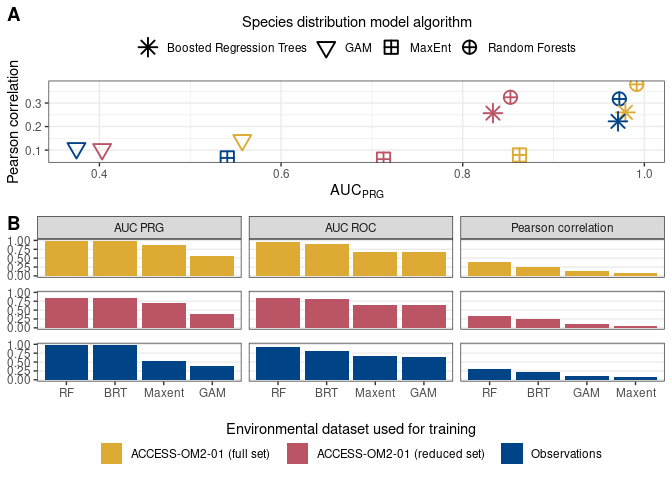
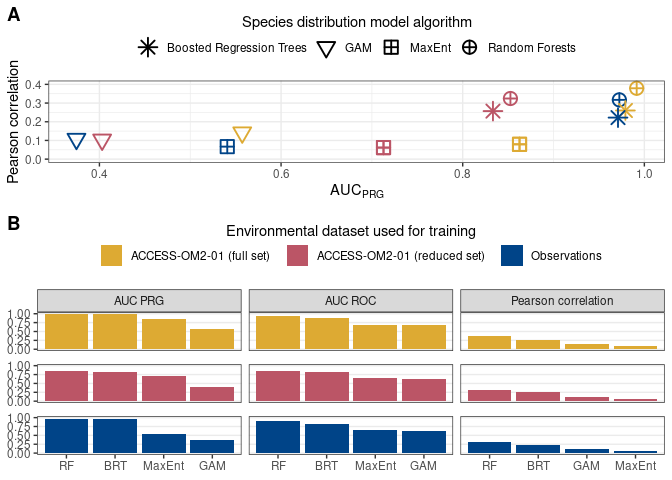
extending y axis

diff --git a/Scripts/05_SDMs/08_SDMs_performance_plots.md b/Scripts/05_SDMs/08_SDMs_performance_plots.md
@@ -38,7 +38,7 @@ mod_eval_path <- "../../SDM_outputs/model_evaluation.csv"
 model_eval <- read_csv(mod_eval_path) 
 ```
 
-    ## Rows: 12 Columns: 6
+    ## Rows: 14 Columns: 6
     ## ── Column specification ────────────────────────────────────────────────────────
     ## Delimiter: ","
     ## chr (2): model, env_trained
@@ -56,7 +56,8 @@ bars <- model_eval %>%
                values_to = "value") %>% 
   #Renaming models to ensure figure labels show correctly
   mutate(model = case_when(str_detect(model, "Random") ~ "RF",
-                           str_detect(model, "Trees") ~ "BRT", 
+                           str_detect(model, "Trees") ~ "BRT",
+                           model == "Maxent" ~ "MaxEnt",
                            T ~ model),
          #Turning column to factor
          model = factor(model),
@@ -81,7 +82,7 @@ bars <- model_eval %>%
   #Improving plot
   theme(axis.title = element_blank(), panel.grid.major.x = element_blank(),
         panel.grid.minor.y = element_blank(), strip.text.y = element_blank(),
-        legend.position = "bottom", panel.spacing.y = unit(0.35, "cm"))
+        legend.position = "top", panel.spacing.y = unit(0.35, "cm"))
 
 bars
 ```
@@ -117,7 +118,8 @@ scatter <- model_eval %>%
   scale_colour_manual(values = c("#ddaa33", "#bb5566", "#004488"))+
   #Change legend title position
   theme(legend.title.position = "top", 
-        legend.title = element_text(hjust = 0.5))
+        legend.title = element_text(hjust = 0.5))+
+  lims(y = c(0, 0.4))
 
 scatter
 ```
